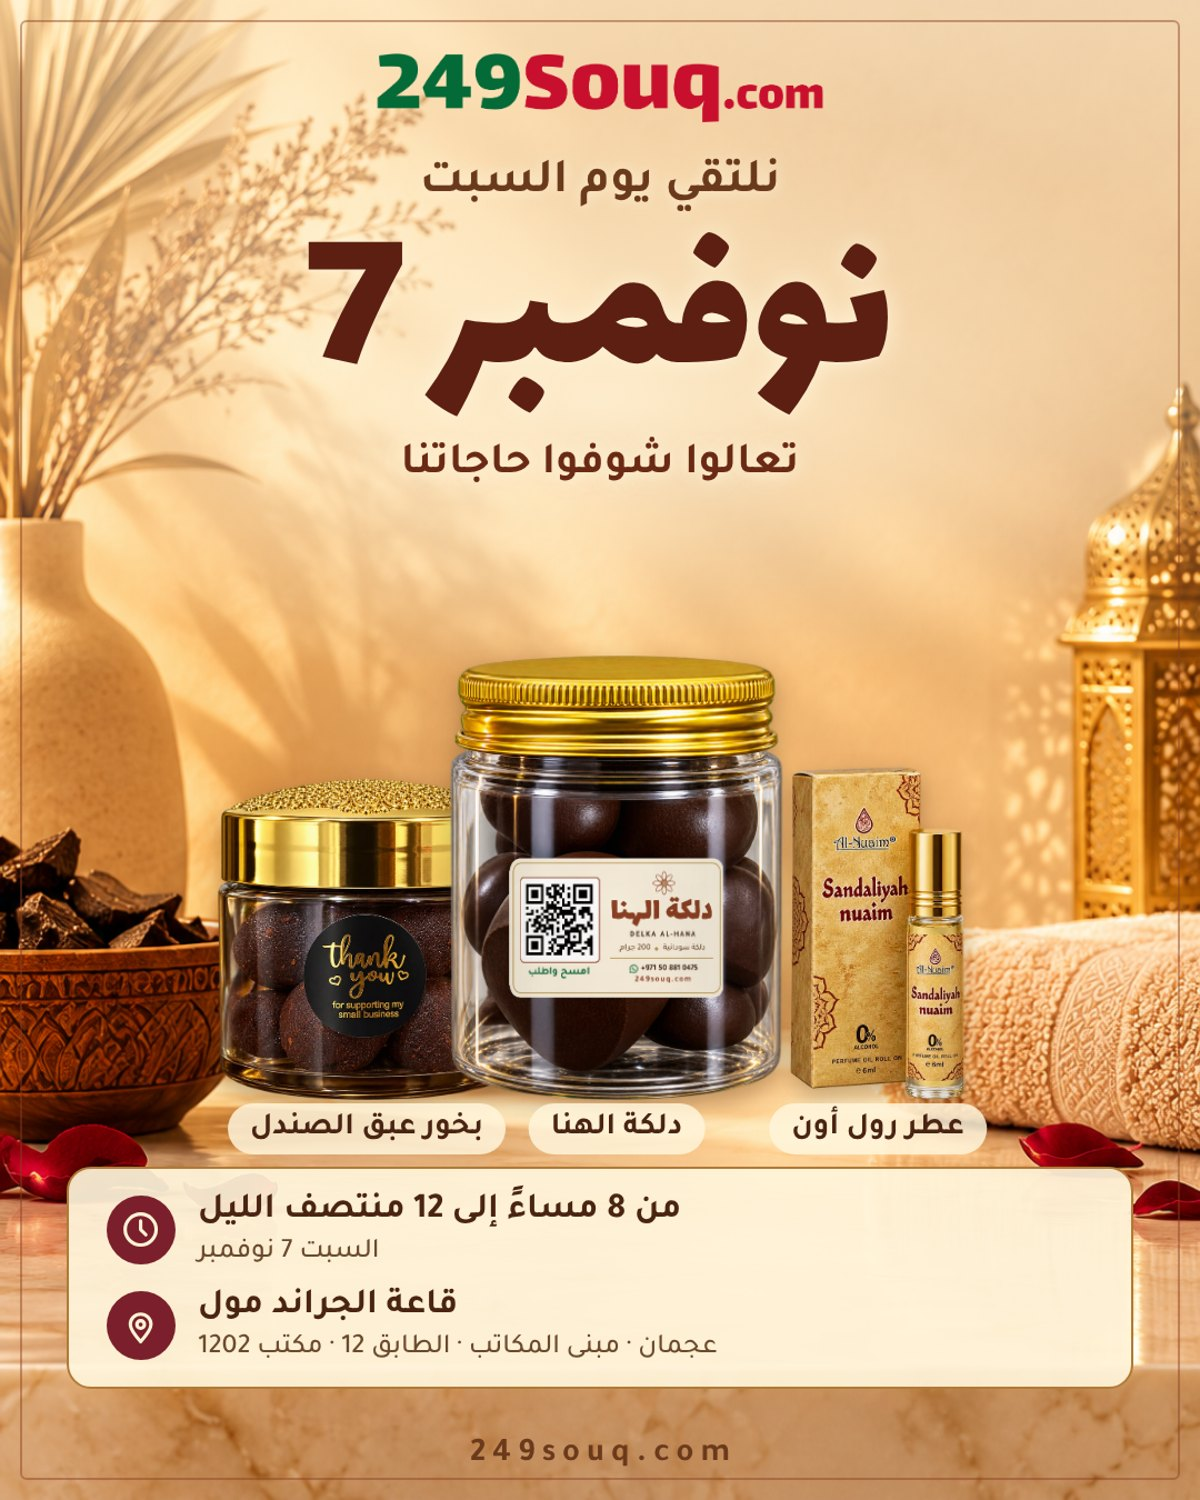
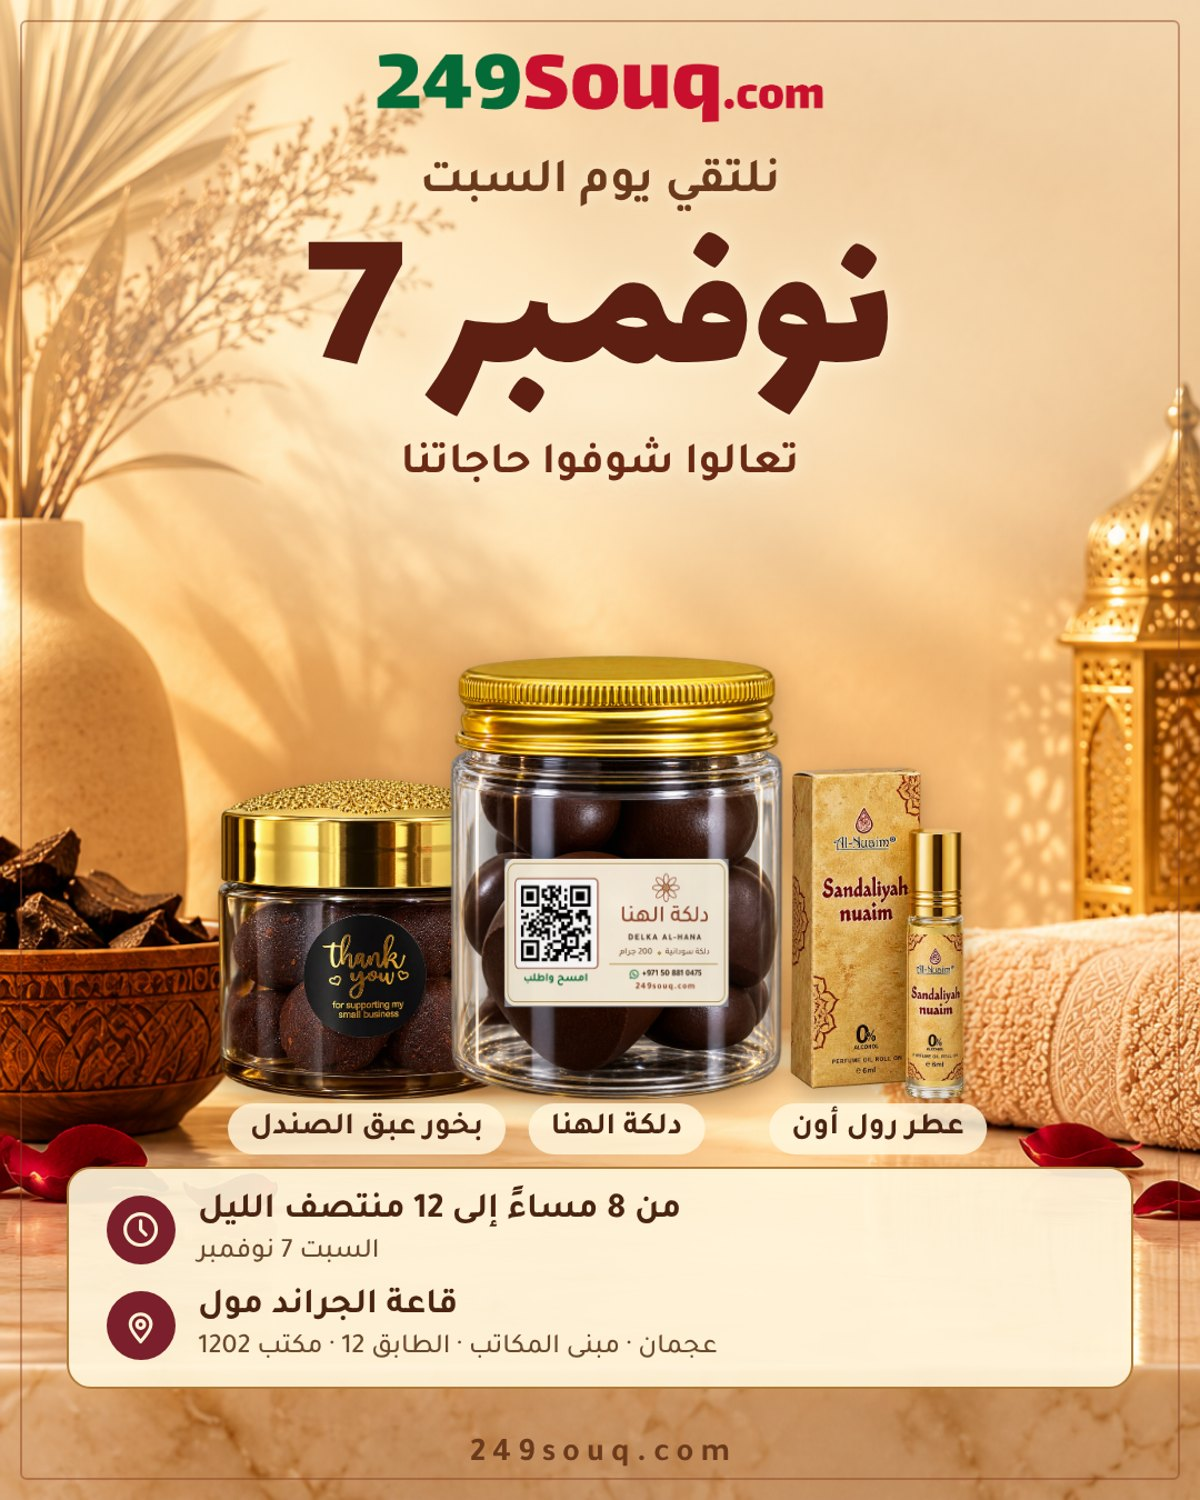
Refresh event poster with new Dilka label
Claude-Session: https://claude.ai/code/session_01SuiLfGdhdGsgKzKcMXGYRk

Changed region(s): [[0.4008, 0.552, 0.6167, 0.6747]]

diff --git a/event.html b/event.html
@@ -12,7 +12,7 @@
 <meta property="og:title" content="نلتقي يوم السبت 7 نوفمبر | 249Souq"/>
 <meta property="og:description" content="تعالوا شوفوا حاجاتنا — من 8 مساءً إلى 12 منتصف الليل، قاعة الجراند مول، عجمان."/>
 <meta property="og:url" content="https://249souq.com/event"/>
-<meta property="og:image" content="https://249souq.com/img/event-poster.jpg"/>
+<meta property="og:image" content="https://249souq.com/img/event-poster.jpg?v=2"/>
 <meta name="twitter:card" content="summary_large_image"/>
 <link rel="icon" href="favicon.ico" sizes="any"/>
 <style>
@@ -25,7 +25,7 @@ a.b.g{background:#1E7B4B}
 </style>
 </head>
 <body>
-<img src="img/event-poster.jpg" alt="249Souq — السبت 7 نوفمبر، قاعة الجراند مول، عجمان"/>
+<img src="img/event-poster.jpg?v=2" alt="249Souq — السبت 7 نوفمبر، قاعة الجراند مول، عجمان"/>
 <div class="btns">
 <a class="b" href="https://maps.app.goo.gl/A6ufRW2RK8kYZudN7?g_st=iw">📍 الموقع على خرائط جوجل</a>
 <a class="b g" href="https://wa.me/971508810475?text=%D8%B3%D9%84%D8%A7%D9%85%D8%8C%20%D8%A3%D9%86%D8%A7%20%D8%AA%D8%AD%D8%AF%D8%AB%D8%AA%20%D8%B9%D9%86%20%D9%81%D8%B9%D8%A7%D9%84%D9%8A%D8%A9%207%20%D9%86%D9%88%D9%81%D9%85%D8%A8%D8%B1">💬 تواصل معنا على واتساب</a>
